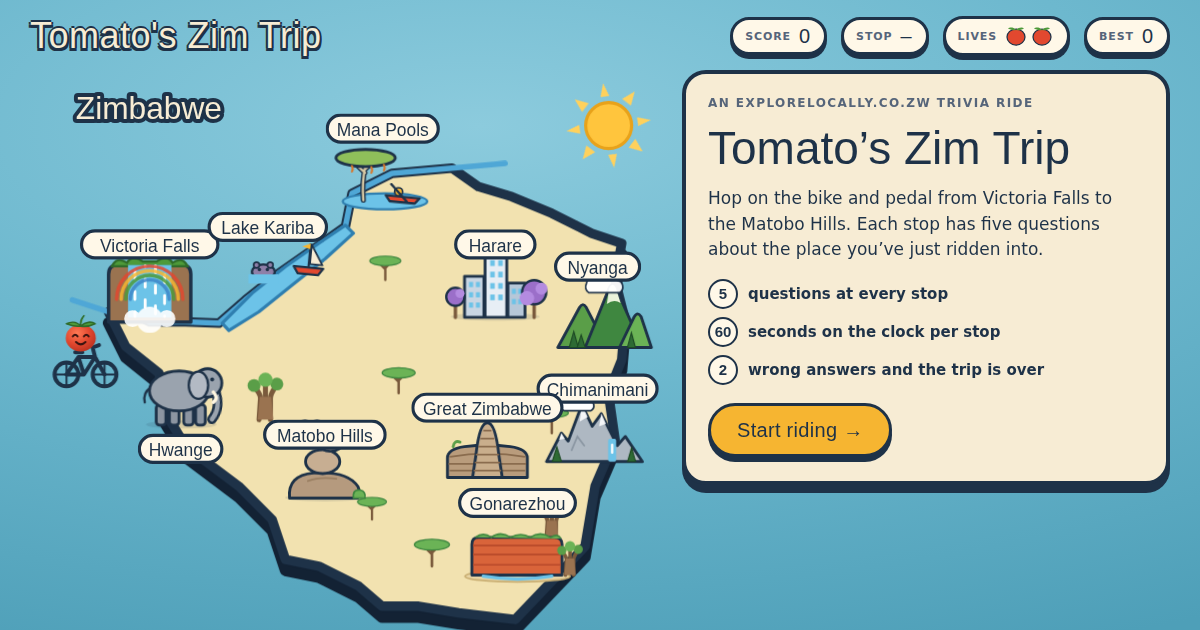
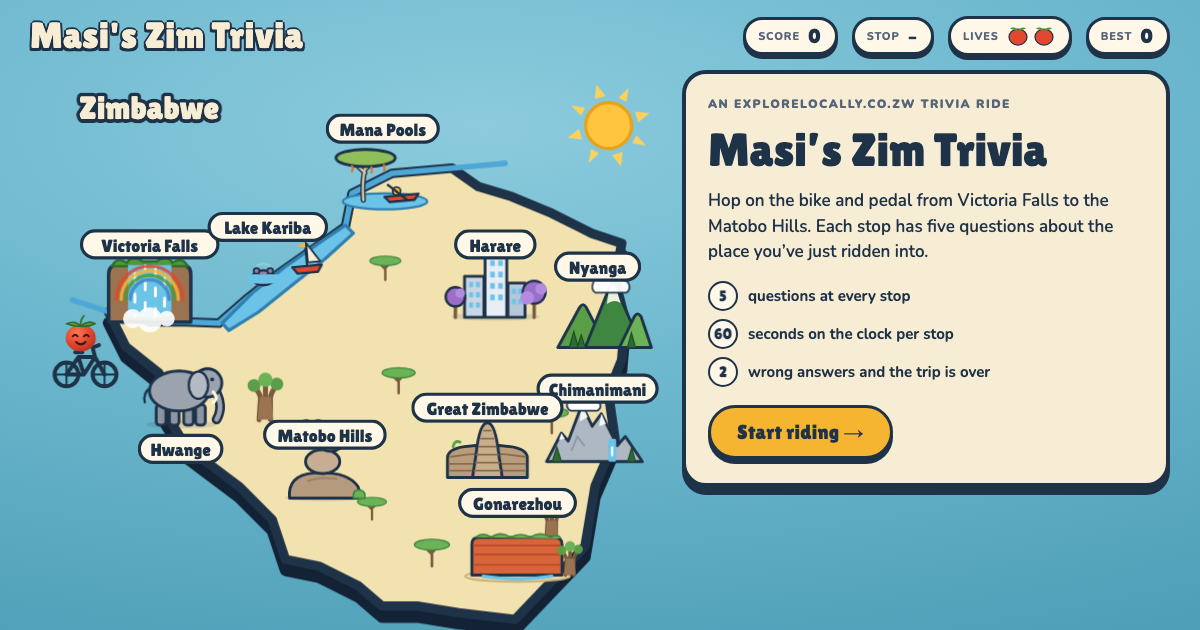
Rename to Masi's Zim Trivia
The tomato character is Masi. Updates page title, meta/OG tags, in-game copy,
share text, README, CLAUDE.md and the link-preview image. localStorage keys and
UTM source stay as zimtrip so saved progress and analytics carry over.

diff --git a/index.html b/index.html
@@ -3,14 +3,14 @@
 <head>
 <meta charset="utf-8">
 <meta name="viewport" content="width=device-width,initial-scale=1,viewport-fit=cover">
-<title>Tomato's Zim Trip – Zimbabwe trivia by ExploreLocally</title>
-<meta name="description" content="Cycle across Zimbabwe with the ExploreLocally tomato. Ten stops from Victoria Falls to the Matobo Hills, five questions and 60 seconds at each. How far can you ride?">
+<title>Masi's Zim Trivia – Zimbabwe trivia by ExploreLocally</title>
+<meta name="description" content="Cycle across Zimbabwe with Masi, the ExploreLocally tomato. Ten stops from Victoria Falls to the Matobo Hills, five questions and 60 seconds at each. How far can you ride?">
 <link rel="canonical" href="https://zimtrivia.explorelocally.co.zw/">
 <meta name="theme-color" content="#6DB8CE">
 <link rel="icon" href="favicon.svg" type="image/svg+xml">
 <meta property="og:type" content="website">
 <meta property="og:site_name" content="ExploreLocally">
-<meta property="og:title" content="Tomato's Zim Trip – how well do you know Zimbabwe?">
+<meta property="og:title" content="Masi's Zim Trivia – how well do you know Zimbabwe?">
 <meta property="og:description" content="Ten stops, five questions each, 60 seconds on the clock. Two wrong answers and the trip is over.">
 <meta property="og:url" content="https://zimtrivia.explorelocally.co.zw/">
 <meta property="og:image" content="https://zimtrivia.explorelocally.co.zw/og-image.png">
@@ -239,7 +239,7 @@ button:focus-visible{outline:3px solid var(--red);outline-offset:3px}
 <body>
 <div class="app">
   <header class="hud">
-    <p class="brand">Tomato's Zim Trip</p>
+    <p class="brand">Masi's Zim Trivia</p>
     <div class="chip" id="chipScore"><span>Score</span><b id="score">0</b></div>
     <div class="chip"><span>Stop</span><b id="stopNum">–</b></div>
     <div class="chip" aria-label="Lives this stop"><span>Lives</span>
@@ -254,7 +254,7 @@ button:focus-visible{outline:3px solid var(--red);outline-offset:3px}
 
   <main class="main">
     <div class="mapwrap" id="mapwrap"><div class="mapcard"><p class="mapcap" id="mapCap">Your trip</p>
-      <svg id="map" viewBox="0 0 800 720" role="img" aria-label="Map of Zimbabwe showing the tomato's cycling route">
+      <svg id="map" viewBox="0 0 800 720" role="img" aria-label="Map of Zimbabwe showing Masi's cycling route">
         <defs>
           <symbol id="star" viewBox="-10 -10 20 20"><path d="M0-10Q1.5-1.5 10 0Q1.5 1.5 0 10Q-1.5 1.5-10 0Q-1.5-1.5 0-10Z" fill="#FFF6D8"/></symbol>
           <radialGradient id="tomG" cx="38%" cy="32%" r="75%"><stop offset="0" stop-color="#FF7A55"/><stop offset=".55" stop-color="#E2482F"/><stop offset="1" stop-color="#B8301E"/></radialGradient>
@@ -466,7 +466,7 @@ button:focus-visible{outline:3px solid var(--red);outline-offset:3px}
 
   function startScreen(){
     game.phase='start';setStop();
-    show('<p class="eyebrow">An ExploreLocally.co.zw trivia ride</p><h1>Tomato’s Zim Trip</h1>'+
+    show('<p class="eyebrow">An ExploreLocally.co.zw trivia ride</p><h1>Masi’s Zim Trivia</h1>'+
       '<p class="lede">Hop on the bike and pedal from Victoria Falls to the Matobo Hills. Each stop has five questions about the place you’ve just ridden into.</p>'+
       '<ul class="rules"><li><i>5</i>questions at every stop</li><li><i>60</i>seconds on the clock per stop</li><li><i>2</i>wrong answers and the trip is over</li></ul>'+
       '<button class="cta" id="go" type="button">Start riding →</button>'+(best?'<p class="small">Your best so far: '+best+' points</p>':''),'#go');
@@ -655,9 +655,9 @@ button:focus-visible{outline:3px solid var(--red);outline-offset:3px}
   function gameOver(why){
     game.phase='over';cancelAnimationFrame(tickRAF);closeMap();mood(true);bikeShake();
     var nb=saveBest(),pl=PLACES[game.stop];
-    var msg='I made it to '+pl.name+' on Tomato\u2019s Zim Trip and scored '+fmt(game.score)+' points \ud83c\udf45\ud83d\udeb2 Think you know Zimbabwe better? '+GAME_URL;
+    var msg='I made it to '+pl.name+' on Masi\u2019s Zim Trivia and scored '+fmt(game.score)+' points \ud83c\udf45\ud83d\udeb2 Think you know Zimbabwe better? '+GAME_URL;
     show('<p class="eyebrow">Game over</p><h2>'+(why==='time'?'Out of time at '+esc(pl.name):'Two wrong at '+esc(pl.name))+'</h2>'+
-      '<p class="lede">'+(why==='time'?'The clock ran out before all five questions were answered.':'The tomato needs four right answers to keep riding.')+'</p>'+
+      '<p class="lede">'+(why==='time'?'The clock ran out before all five questions were answered.':'Masi needs four right answers to keep riding.')+'</p>'+
       '<div class="stats"><div class="stat"><span>Score</span><b>'+game.score+'</b></div><div class="stat"><span>Stops cleared</span><b>'+game.cleared+'/'+PLACES.length+'</b></div><div class="stat"><span>Best</span><b>'+best+'</b></div></div>'+
       (nb&&game.score>0?'<p class="small">New personal best!</p>':'')+
       '<button class="cta" id="again" type="button">Ride again</button>'+shareBlock(msg)+exploreBtn(pl,'Plan a real trip \u00b7 '),'#again');
@@ -666,11 +666,11 @@ button:focus-visible{outline:3px solid var(--red);outline-offset:3px}
 
   function win(){
     game.phase='won';var nb=saveBest();bikeHop();
-    var msg='I cycled all 10 stops of Tomato\u2019s Zim Trip and scored '+fmt(game.score)+' points \ud83c\udf45\ud83d\udeb2 Can you beat me? '+GAME_URL;
+    var msg='I cycled all 10 stops of Masi\u2019s Zim Trivia and scored '+fmt(game.score)+' points \ud83c\udf45\ud83d\udeb2 Can you beat me? '+GAME_URL;
     openMap('Trip complete!','See your score');
     PLACES.forEach(function(p,i){var L=LAYOUT[p.id];setTimeout(function(){burst(L.tag[0],L.tag[1])},i*160)});
     show('<p class="eyebrow">Trip complete</p><h2>You toured all of Zimbabwe!</h2>'+
-      '<p class="lede">Ten stops, from the smoke that thunders to the bald heads of Matobo. The tomato is very proud of you.</p>'+
+      '<p class="lede">Ten stops, from the smoke that thunders to the bald heads of Matobo. Masi is very proud of you.</p>'+
       '<div class="stats"><div class="stat"><span>Final score</span><b>'+game.score+'</b></div><div class="stat"><span>Best</span><b>'+best+'</b></div></div>'+
       (nb?'<p class="small">New personal best!</p>':'')+
       '<button class="cta" id="again" type="button">Ride again</button>'+shareBlock(msg),'#again');

diff --git a/CLAUDE.md b/CLAUDE.md
@@ -1,6 +1,6 @@
-# Tomato's Zim Trip — Claude Code instructions
+# Masi's Zim Trivia — Claude Code instructions
 
-A static, zero-build trivia game for ExploreLocally. The tomato cycles across a cartoon map of
+A static, zero-build trivia game for ExploreLocally. Masi the tomato cycles across a cartoon map of
 Zimbabwe; each of 10 stops has 5 questions and a 60-second clock. It will live at
 **https://zimtrivia.explorelocally.co.zw**.
 
@@ -10,7 +10,7 @@ Zimbabwe; each of 10 stops has 5 questions and a 60-second clock. It will live a
 |---|---|
 | `index.html` | The whole game: markup, CSS, map art and game logic. No framework, no build step. |
 | `questions.js` | The question bank (`PLACES`). **Edit questions here, not in `index.html`.** |
-| `favicon.svg` | Tomato icon. |
+| `favicon.svg` | Tomato (Masi) icon. |
 | `og-image.png` | 1200×630 link-preview image for WhatsApp/Facebook. |
 | `vercel.json` | Static hosting config (headers, caching). |
 
@@ -41,9 +41,9 @@ Assumes `gh`, the Vercel CLI (or Vercel MCP) and Cloudflare access are already a
 ```bash
 git init -b main
 git add .
-git commit -m "Tomato's Zim Trip: initial release"
+git commit -m "Masi's Zim Trivia: initial release"
 gh repo create zim-trivia --public --source=. --remote=origin --push \
-  --description "Tomato's Zim Trip – a Zimbabwe trivia ride by ExploreLocally"
+  --description "Masi's Zim Trivia – a Zimbabwe trivia ride by ExploreLocally"
 ```
 (Use `--private` instead if Rufaro prefers; Vercel works with either.)
 
@@ -83,3 +83,7 @@ gh repo create zim-trivia --public --source=. --remote=origin --push \
 - Shared leaderboard.
 - Harder later stops (shorter clock), sound effects with a mute toggle.
 - Destination pages on explorelocally.co.zw for Mana Pools, Chimanimani and Gonarezhou — then update their `link` in `questions.js` (currently `/listings/parks/` and `/listings/hiking-trails/`).
+
+## Naming
+- The game is **Masi's Zim Trivia**; the tomato character is **Masi**. The `zimtrip-*` localStorage keys
+  and `utm_source=zimtrip` are kept from the old name so saved progress and analytics carry over.

diff --git a/README.md b/README.md
@@ -1,4 +1,4 @@
-# Tomato's Zim Trip 🍅🚲
+# Masi's Zim Trivia 🍅🚲
 
 A Zimbabwe trivia ride by [ExploreLocally](https://explorelocally.co.zw).
 Cycle from Victoria Falls to the Matobo Hills — ten stops, five questions and 60 seconds at each.
